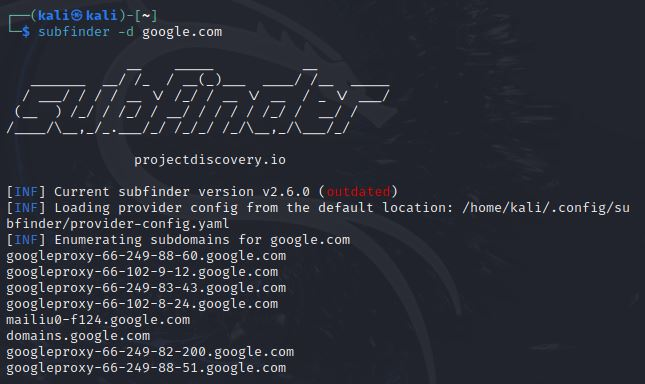
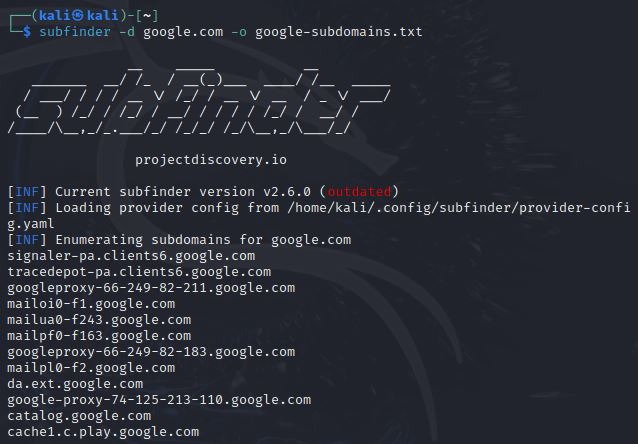
Update

diff --git a/tools/teknologi/httpx.md b/tools/teknologi/httpx.md
@@ -1,0 +1,36 @@
+# httpx
+Tool ini digunakan untuk menemukan teknologi yang digunakan oleh suatu web seperti web server, CMS, library JavaScript dan sebagainya
+
+- Link download dan instalasi: https://github.com/projectdiscovery/httpx
+
+## Instalasi
+- Install menggunakan tool go
+```sh
+go install -v github.com/projectdiscovery/httpx/cmd/httpx@latest
+```
+
+- Copy ke folder `/usr/bin` supaya bisa digunakan dimana saja
+```sh
+sudo cp go/bin/httpx /usr/bin
+```
+
+- Dokumentasi cara penggunaan tool httpx bisa dilihat dengan perintah berikut
+```sh
+httpx -h
+```
+
+## Contoh Penggunaan
+- Tool ini bisa dikombinasikan dengan tool pencari sub domain seperti `sublist3r`
+```sh
+sublist3r -d domain -o output_file
+```
+
+- Melakukan pengecekan status di tiap sub domain
+```sh
+cat output_file | httpx -sc
+```
+
+- Melakukan pengecekan teknologi di tiap sub domain
+```sh
+cat output_file | httpx -td
+```

diff --git a/tools/subdomain/subfinder.md b/tools/subdomain/subfinder.md
@@ -12,7 +12,7 @@ sudo apt install subfinder
 
 - Pemakaian
 ```sh
-subfinder -d domain
+subfinder -d domain -o file_name
 ```
 
 ![alt text](https://github.com/rahardian-dwi-saputra/bugbounty-tools/blob/main/assets/subfinder/subfinder%202.JPG)

diff --git a/tools/subdomain/sublist3r.md b/tools/subdomain/sublist3r.md
@@ -12,7 +12,7 @@ sudo apt install sublist3r
 
 - Pemakaian
 ```sh
-sublist3r -d domain
+sublist3r -d domain -o file_name
 ```
 
 ![alt text](https://github.com/rahardian-dwi-saputra/bugbounty-tools/blob/main/assets/sublist3r/sub%202.JPG)
